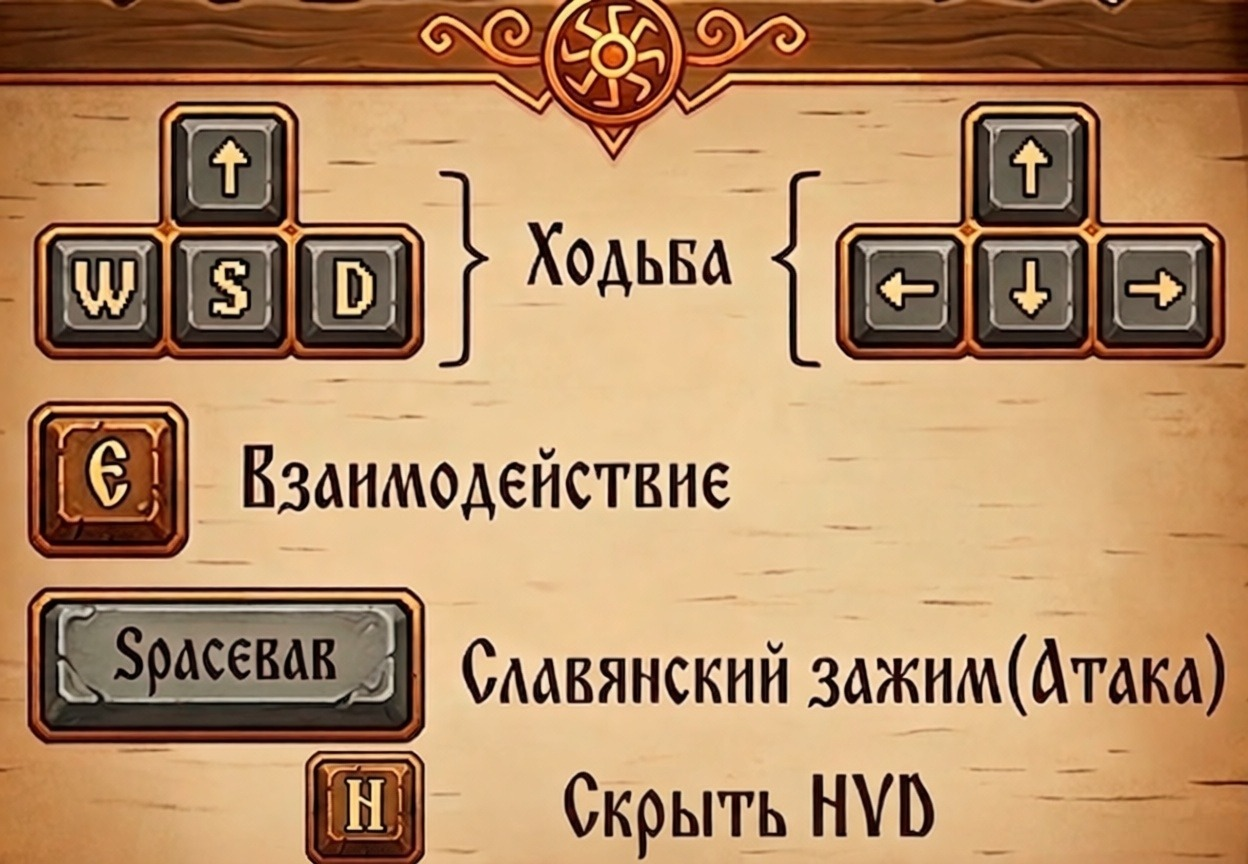
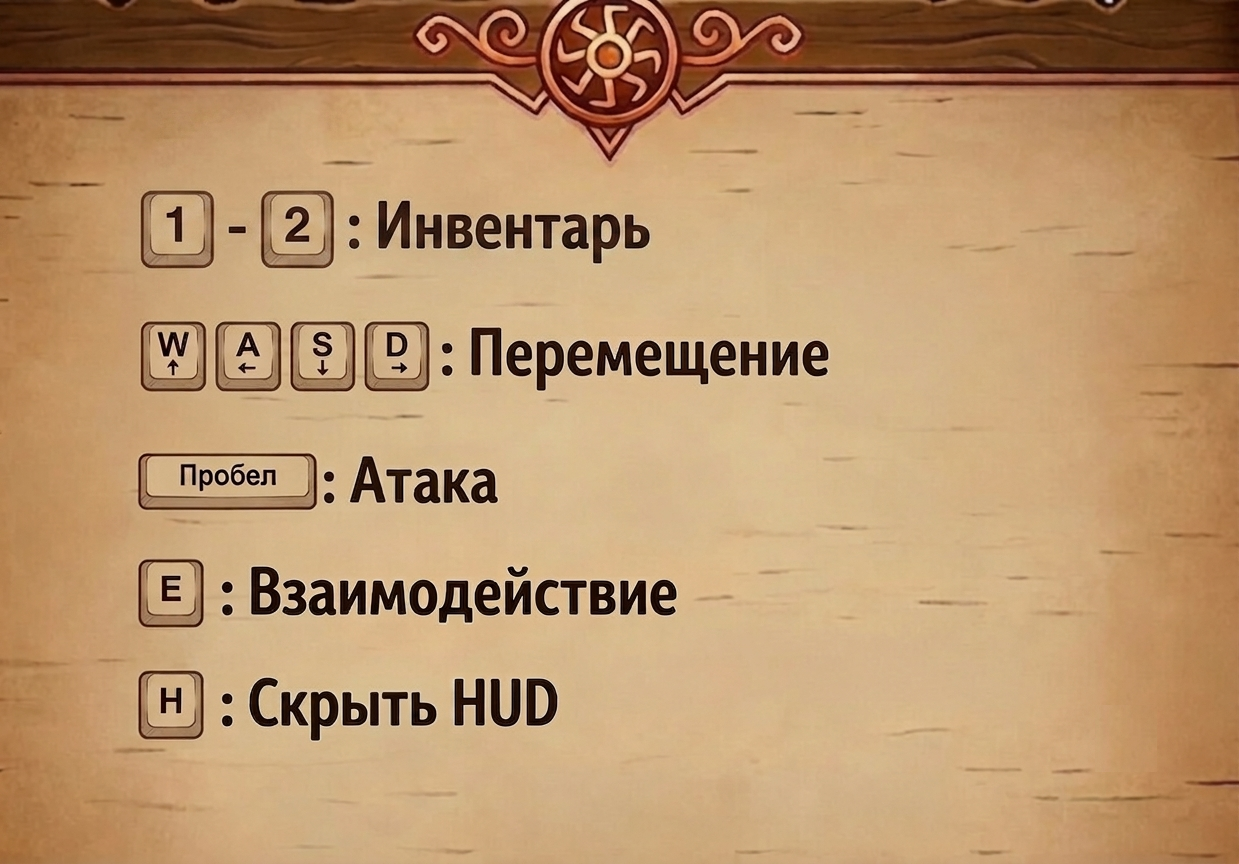
Обновил F1, добавил текстуру портала

diff --git a/client/src/infrastructure/render/SupportRenderer.ts b/client/src/infrastructure/render/SupportRenderer.ts
@@ -149,10 +149,10 @@ export class TextureRenderer implements EntityRenderer {
             );
             switch (entity.activeWeaponVisualId) {
                 case 'iron_sword':
-                    audio.playSound('commonSkash', 'attack');
+                    audio.playSound('commonSlash', 'attack');
                     break;
                 case 'battle_axe':
-                    audio.playSound('commonSkash', 'attack');
+                    audio.playSound('commonSlash', 'attack');
                     break;
                 case 'fire_staff':
                     audio.playSound('fireCast', 'attack');
